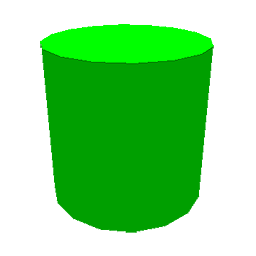
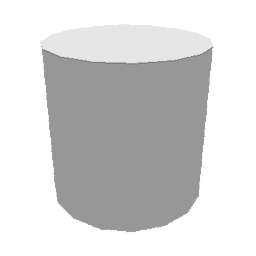
dynamically change thumb color

diff --git a/src/components/gui/EditorActorSummary.js b/src/components/gui/EditorActorSummary.js
@@ -13,34 +13,28 @@ const EditorActorSummary = (props) => {
 
     const attributes = Object.entries(props.actor.attributes)
 
-    let thumb
-    switch(props.actor.actorType){
-        case "box":
-            thumb=boxThumb
-            break
-        case "cylinder":
-            thumb=cylinderThumb
-            break
-        case "torus":
-            thumb=torusThumb
-            break
-        case "ambient":
-            thumb=ambientThumb
-            break
-        case "point":
-            thumb=pointThumb
-            break
-        default:
-            console.warn("image not available for actor type " + props.actor.actorType)
-            thumb=boxThumb
-            break
+    const blendStyle = {
+        backgroundColor: props.actor.color,
+        maskImage: `url("assets/${props.actor.actorType}-thumb.png")`,
+        WebkitMaskBoxImage: `url("assets/${props.actor.actorType}-thumb.png")`,
     }
 
     return (
         <div id="editor-actor-summary">
             <div id="editor-actor-summary-header">
                 <div className="editor-item">
-                    <img id="editor-thumbnail" src={thumb} alt="actor thumbnail" />
+                    <div id="editor-thumbnail-background">
+                        <div id="editor-thumbnail-blend" 
+                             style={blendStyle}>
+                            <img id="editor-thumbnail-base" 
+                                 src={`assets/${props.actor.actorType}-thumb.png`} 
+                                 alt="editor thumbnail"/>
+                            <img id="editor-thumbnail" 
+                                 src={`assets/${props.actor.actorType}-thumb.png`} 
+                                 alt="editor thumbnail"/>
+                            
+                        </div>
+                    </div>
                     <EditorMatrix matrix={props.actor.matrix} 
                                   handleChange={props.handleMatrixChange}
                                   handleBlur={props.handleMatrixBlur}

diff --git a/src/components/gui/EditorContainer.js b/src/components/gui/EditorContainer.js
@@ -16,26 +16,6 @@ const EditorContainer = (props) => {
     const [bufferHSL, setBufferHSL] = useState(null)
     const [editAttrName, setEditAttrName] = useState(null)
 
-    const handleColorInput = (e) => {
-        setBufferActor(() => ({
-            ...bufferActor,
-            color: e.target.value
-        }))
-        setBufferHSL(chroma(e.target.value).hsl())
-    }
-
-    const handleColorSliderChange = (e) => {
-        setBufferActor(() => ({
-            ...bufferActor,
-            color: chroma(bufferHSL[0], 
-                          bufferHSL[1], 
-                          e.target.value / 100, 
-                          "hsl").hex()
-        }))
-        setBufferHSL(() => [bufferHSL[0], bufferHSL[1], e.target.value / 100]
-        )
-    }
-
     /*------------------------------------------------------------------------------------------*/
 
     /* Side effects */
@@ -129,6 +109,26 @@ const EditorContainer = (props) => {
         }
         let v = formatValueHelper(e.target.value, tdef, tmin, tmax, 0.01)
         setMatrixHelper(row, col, v)
+    }
+
+    const handleColorInput = (e) => {
+        setBufferActor(() => ({
+            ...bufferActor,
+            color: e.target.value
+        }))
+        setBufferHSL(chroma(e.target.value).hsl())
+    }
+
+    const handleColorSliderChange = (e) => {
+        setBufferActor(() => ({
+            ...bufferActor,
+            color: chroma(bufferHSL[0], 
+                          bufferHSL[1], 
+                          e.target.value / 100, 
+                          "hsl").hex()
+        }))
+        setBufferHSL(() => [bufferHSL[0], bufferHSL[1], e.target.value / 100]
+        )
     }
 
     const setAttributeHelper = (e, val) => {

diff --git a/src/static/scss/components/gui/_editor.scss b/src/static/scss/components/gui/_editor.scss
@@ -43,12 +43,36 @@
                 padding-bottom: 1em;
             }
         }
-        #editor-thumbnail {
-            width: 100%;
-            height: auto;
+        #editor-thumbnail-background {
+            width: fit-content;
+            height: fit-content;
+            line-height: 0;
             align-self: center;
+            background-color: white;
             @media only screen and (max-width: map-get(v.$breakpoints, "desktop")) {
                 width: map-get(v.$heights, "actorthumbheight")
+            }
+            #editor-thumbnail-blend {
+                position: relative;
+                width: 100%;
+                mix-blend-mode: normal;
+                //mask-image: url("./../imgs/box-thumb.png");
+                //-webkit-mask-box-image: url("./../imgs/box-thumb.png");
+                #editor-thumbnail-base {
+                    position: relative;
+                    width: 100%;
+                    height: auto;
+                    mix-blend-mode: multiply;
+                    opacity: 50%;
+                }
+                #editor-thumbnail {
+                    position: absolute;
+                    width: 100%;
+                    top: 0;
+                    left: 0;
+                    mix-blend-mode: hard-light;
+                    opacity: 50%;
+                }
             }
         }
         .editor-item {
